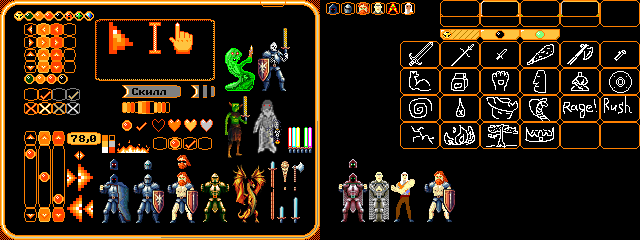
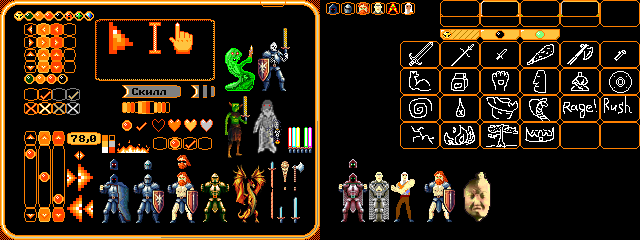
fast save

Changed region(s): [[0.7188, 0.7, 0.7812, 0.9333], [0.4062, 0.8458, 0.4688, 0.9042], [0.4062, 0.6708, 0.4375, 0.7292]]

diff --git a/examples/dungeontris/layers.cpp b/examples/dungeontris/layers.cpp
@@ -1304,52 +1304,9 @@ void ArenaUILayer::OnInit()
     // npc character
     {
         glm::uvec4 src = {0, 0, 34, 64};
+
+        src = game.npcCharacter.sprite_whole_area;
     
-        switch (game.npcCharacter.race)
-        {
-            case DTetris::Races::Goblin:
-            {
-                src = {222, 95, 30, 64};
-                break;
-            }
-            case DTetris::Races::Skeleton:
-            {
-                src = {257, 27, 34, 64};
-                break;
-            }
-            case DTetris::Races::Slime:
-            {
-                src = {225, 43, 30, 48};
-                break;
-            }
-            case DTetris::Races::Ghost:
-            {
-                src = {252, 99, 32, 54};
-                break;
-            }
-            case DTetris::Races::Golem:
-            {
-                src = {200, 172, 30, 51};
-                break;
-            }
-            case DTetris::Races::Dragon:
-            {
-                src = {232, 164, 34, 59};
-                break;
-            }
-            case DTetris::Races::OldGod:
-            {
-                src = {0, 0, 34, 64};
-                break;
-            }
-            case DTetris::Races::Human:
-            {
-                break;
-            }
-            default:
-            {
-            }
-        }
         AddElement(new mse::gui::Image(this, {40, 90 - src.w, src.z, src.w}, "./data/img/screen-images.png", src, {0, 0, 0, 255}));
     }
 
@@ -1456,17 +1413,24 @@ void ArenaUILayer::OnInit()
         MSE_LOG("Weapon: ", utf8::utf32to8(game.playerCharacter.weapon.name.c_str()));
 
 
-        // if (game.playerCharacter.weapon.sprite == DTetris::WeaponSpriteType::LegendarySword)
-        // {
-        //     if (game.playerCharacter.main_class.type != DTetris::Classes::Monk)
-        //     {
-        //         weapon_src.x = weapon_src.x + static_cast<int>(game.playerCharacter.main_class.type) * weapon_src.z;
-        //         weapon_handle_src.x = weapon_handle_src.x + static_cast<int>(game.playerCharacter.main_class.type) * weapon_handle_src.z;
-        //     } else {
-        //         weapon_src.x = weapon_src.x + (weapon_src.z) * ((int)game.playerCharacter.main_class.type - 1);
-        //         weapon_handle_src.x = weapon_handle_src.x + (weapon_src.z) * ((int)game.playerCharacter.main_class.type - 1);
-        //     }
-        // }
+        if (game.playerCharacter.weapon.sprite == DTetris::WeaponSpriteType::LegendarySword)
+        {
+            if (game.playerCharacter.main_class.type != DTetris::Classes::Monk)
+            {
+                AddElement(new mse::gui::Image(
+                    this,
+                    {
+                        250 + head_src.x - character_src.x,
+                        90 + (head_src.y - character_src.y) - character_src.w,
+                        head_src.z,
+                        head_src.w
+                    },
+                    "./data/img/screen-images.png",
+                    head_special_src,
+                    {0, 0, 0, 255}
+                ));
+            }
+        }
         
         // weapon
         AddElement(new mse::gui::Image(
